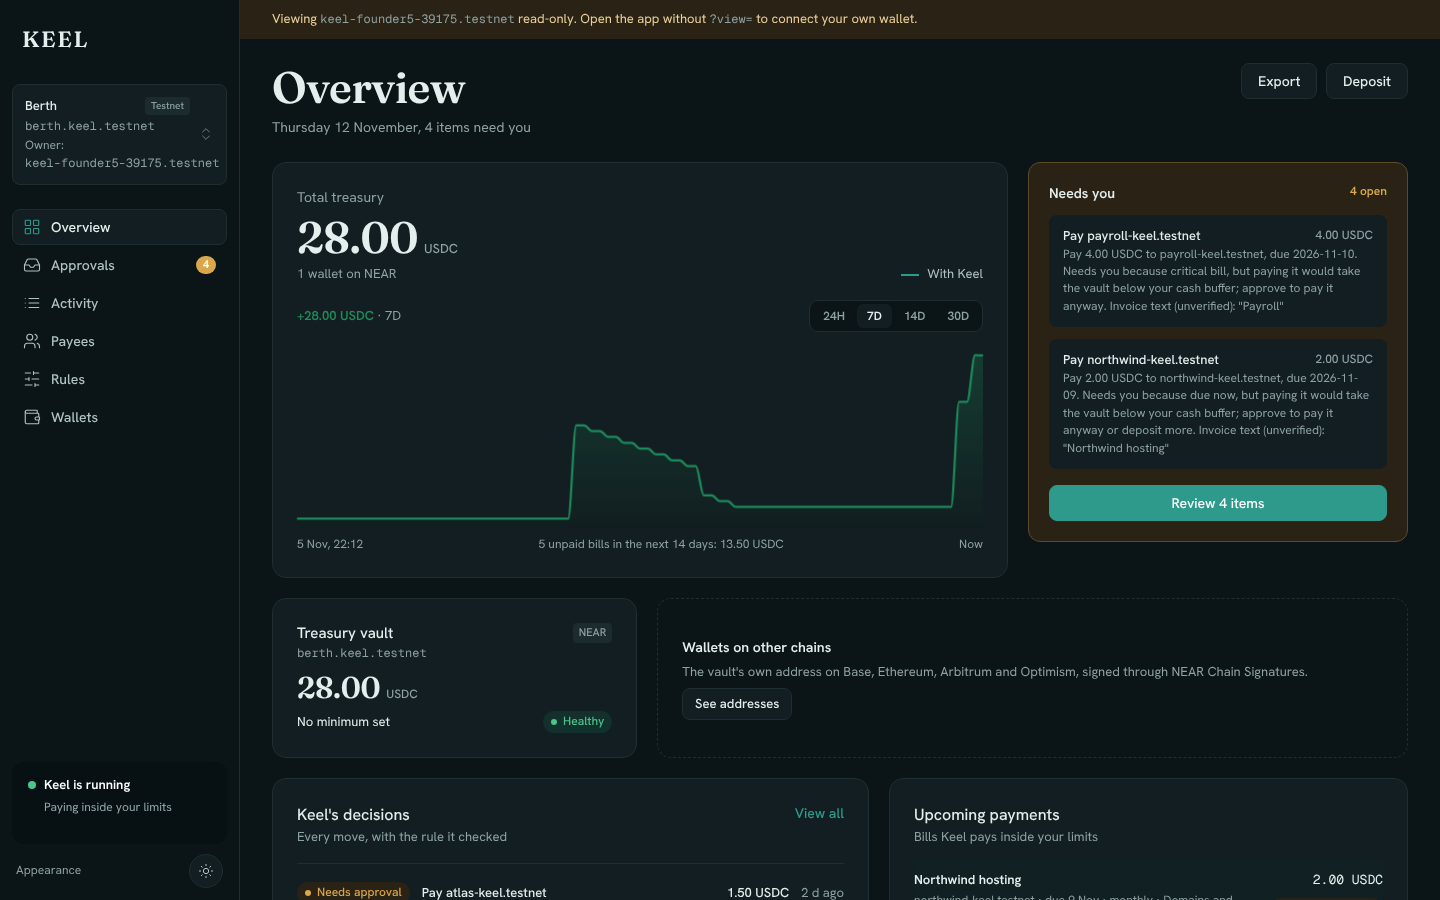
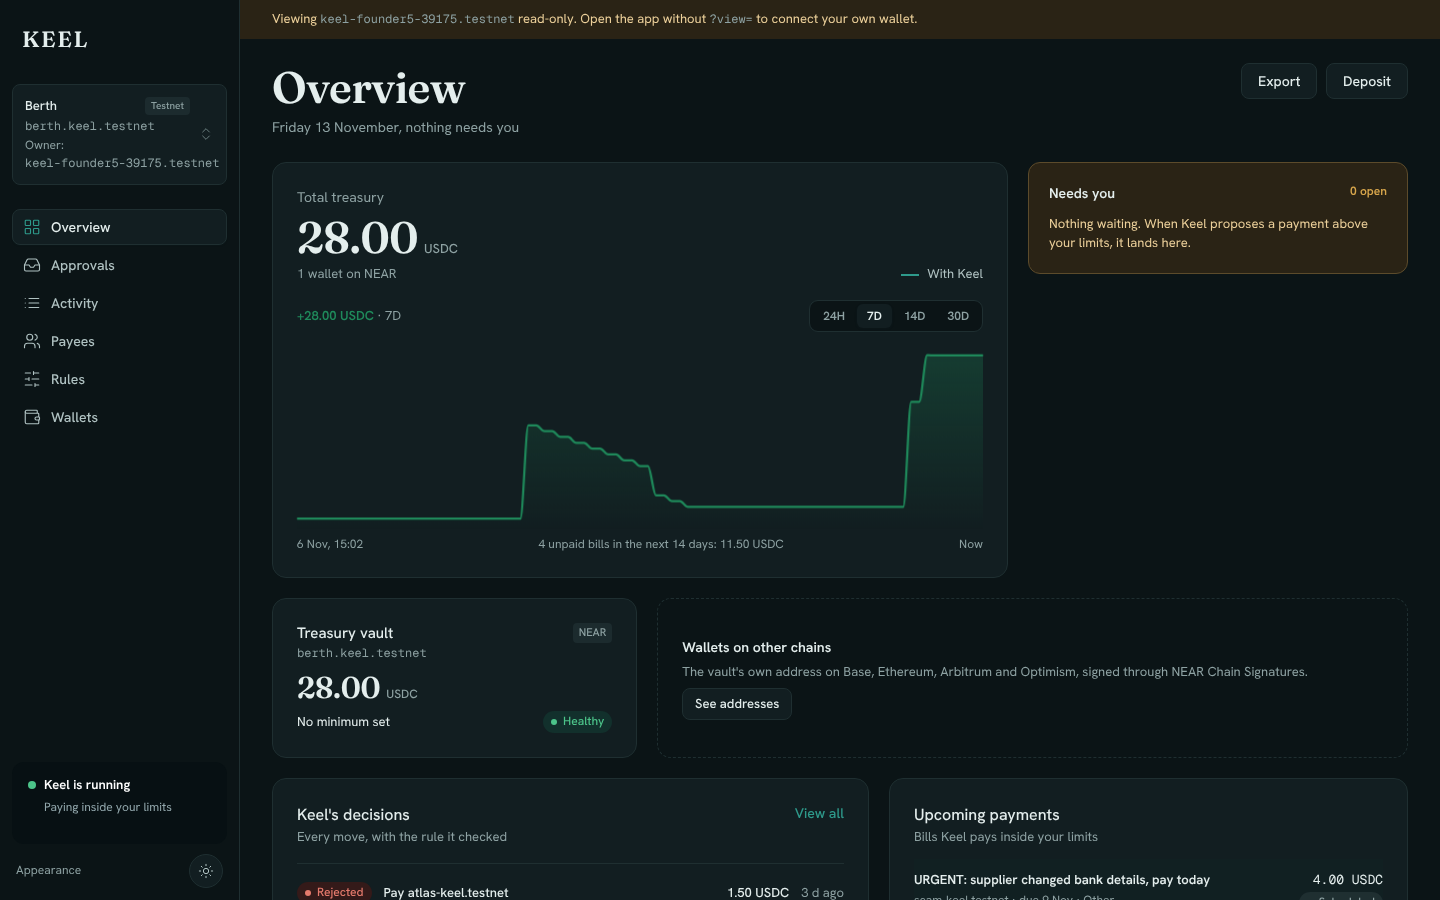
README: dashboard recaptured after the demo vault's refresh

diff --git a/README.md b/README.md
@@ -29,7 +29,7 @@ Tracks: Autonomous Business (`business`), AI Security & Defense (`security`), Re
 
 | The dashboard, read-only on the live app | Paid on Ethereum Sepolia by the vault itself |
 | --- | --- |
-| [![Berth's dashboard: 28 USDC, items waiting for the founder, the balance chart](docs/images/dashboard.png)](https://keel-treasury.vercel.app/app?view=keel-founder5-39175.testnet) | [![Blockscout: Transfer 1 USDC, Success, block 12098666, from the vault's own address 0xB123…B12b](docs/images/sepolia-payout.png)](https://eth-sepolia.blockscout.com/tx/0x044f8d61b3063a779150c8c047aa576df4279fefba2b532b51617e915236100b) |
+| [![Berth's dashboard: 28 USDC, healthy, upcoming bills and the balance chart](docs/images/dashboard.png)](https://keel-treasury.vercel.app/app?view=keel-founder5-39175.testnet) | [![Blockscout: Transfer 1 USDC, Success, block 12098666, from the vault's own address 0xB123…B12b](docs/images/sepolia-payout.png)](https://eth-sepolia.blockscout.com/tx/0x044f8d61b3063a779150c8c047aa576df4279fefba2b532b51617e915236100b) |
 | `berth.keel.testnet`: balance, bills, Keel's decisions and what waits for the owner | A routine bill Keel paid alone inside the owner's Ethereum Sepolia cap, sent from the vault's own address (VERIFIED item 17) |
 
 Run `npm run verify` from a fresh clone (Node.js 22). The last line is `VERIFY PASSED: 17 passed, 0 failed, 0 skipped`: typechecks, agent and app tests, the app build, 161 contract tests, two testnet dry runs, and four cross-chain payments read back from their chains.
